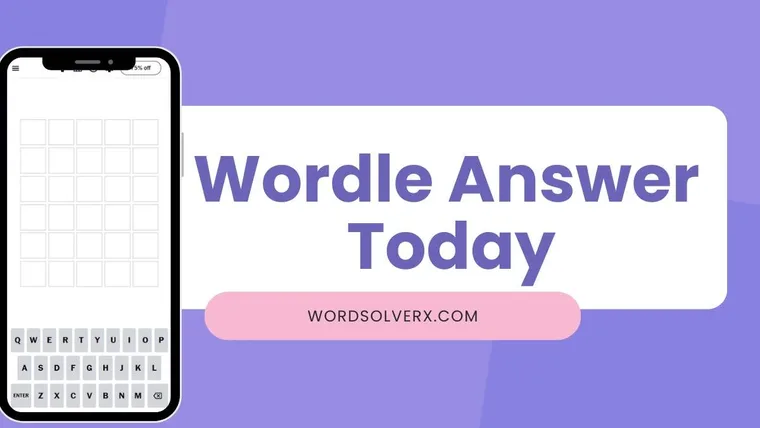
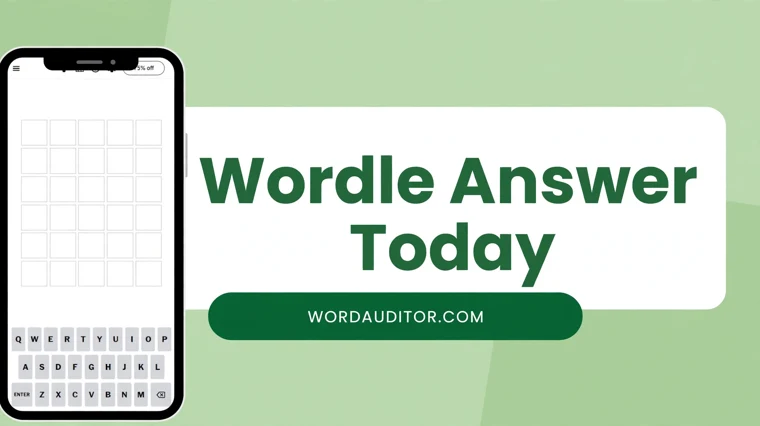
Fix Wordle hints vowel bug (isVowel matched uppercase only, lowercase solution always scored 0 vowels/CCCCC) and replace Wordle hero artwork that still read WORDSOLVERX.COM with green WORDAUDITOR.COM version

diff --git a/src/lib/wordle-hints-today.ts b/src/lib/wordle-hints-today.ts
@@ -196,7 +196,7 @@ export interface WordleHintContent {
 }
 
 function isVowel(letter: string): boolean {
-	return 'AEIOU'.includes(letter);
+	return 'AEIOU'.includes(letter.toUpperCase());
 }
 
 function countVowels(word: string): number {
